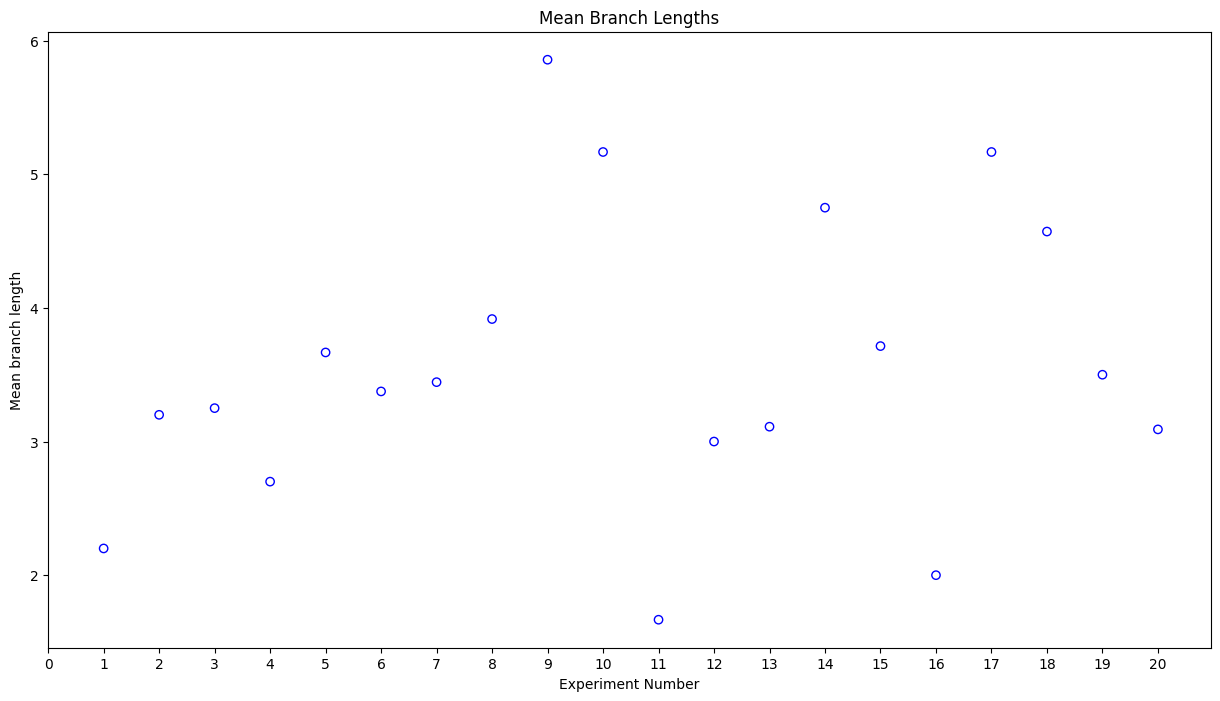
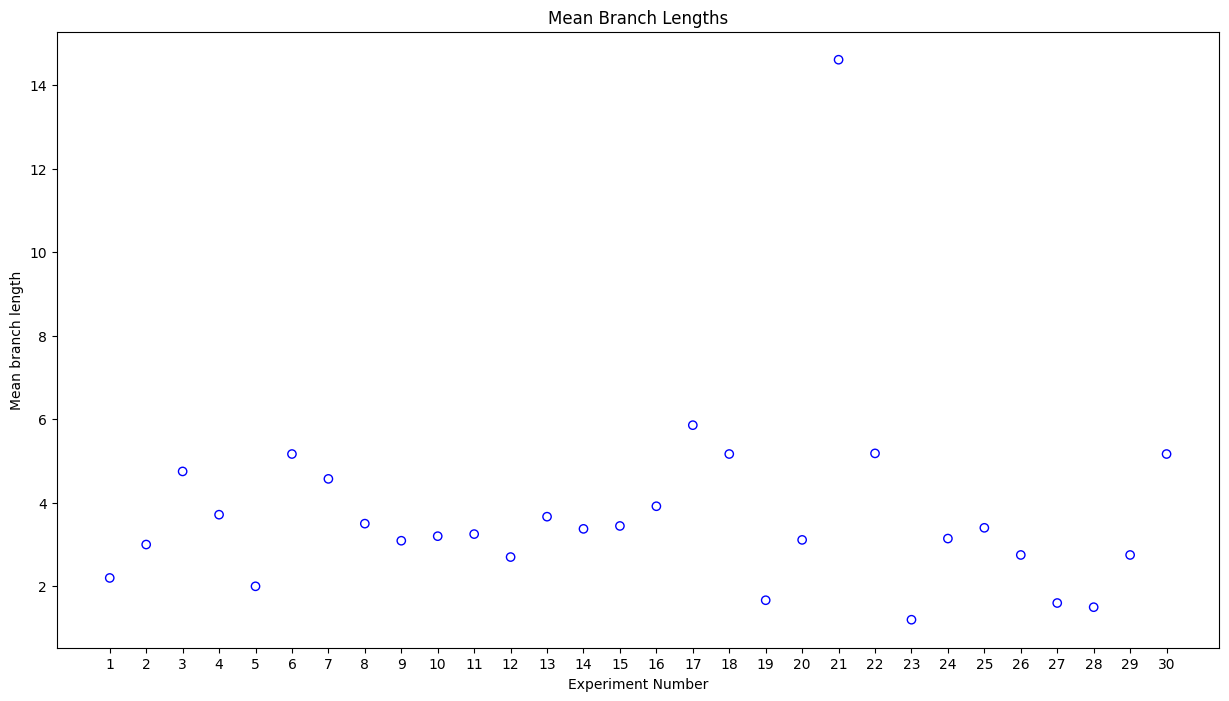
lengths

diff --git a/code/plot_lengths.py b/code/plot_lengths.py
@@ -6,9 +6,7 @@ directory = "./outputs"
 plots_dir = "./plots/"
 pathlib.Path(plots_dir).mkdir(exist_ok=True)
 
-i = 1
-
-mean_lens = []
+mean_lens = {}
 
 for dir in os.listdir(directory):
     j = int(dir)
@@ -20,15 +18,17 @@ for dir in os.listdir(directory):
         for line in f:
             sum_len += int(line.strip())
             cnt += 1
-        mean_lens.append(sum_len/cnt)
+        mean_lens[int(dir)] = (sum_len/cnt)
 
-    i += 1
+mean_lens = dict(sorted(mean_lens.items()))
 
 fig, ax = plt.subplots()
 
-ax.scatter(list(range(1,i)), mean_lens, edgecolors='b', facecolors='none')
+ax.scatter(mean_lens.keys(), mean_lens.values(), edgecolors='b', facecolors='none')
 
-ax.set_xticks(list(range(i)))
+l = list(mean_lens.keys())
+
+ax.set_xticks(l)
 
 ax.set_xlabel('Experiment Number')
 ax.set_ylabel('Mean branch length')
